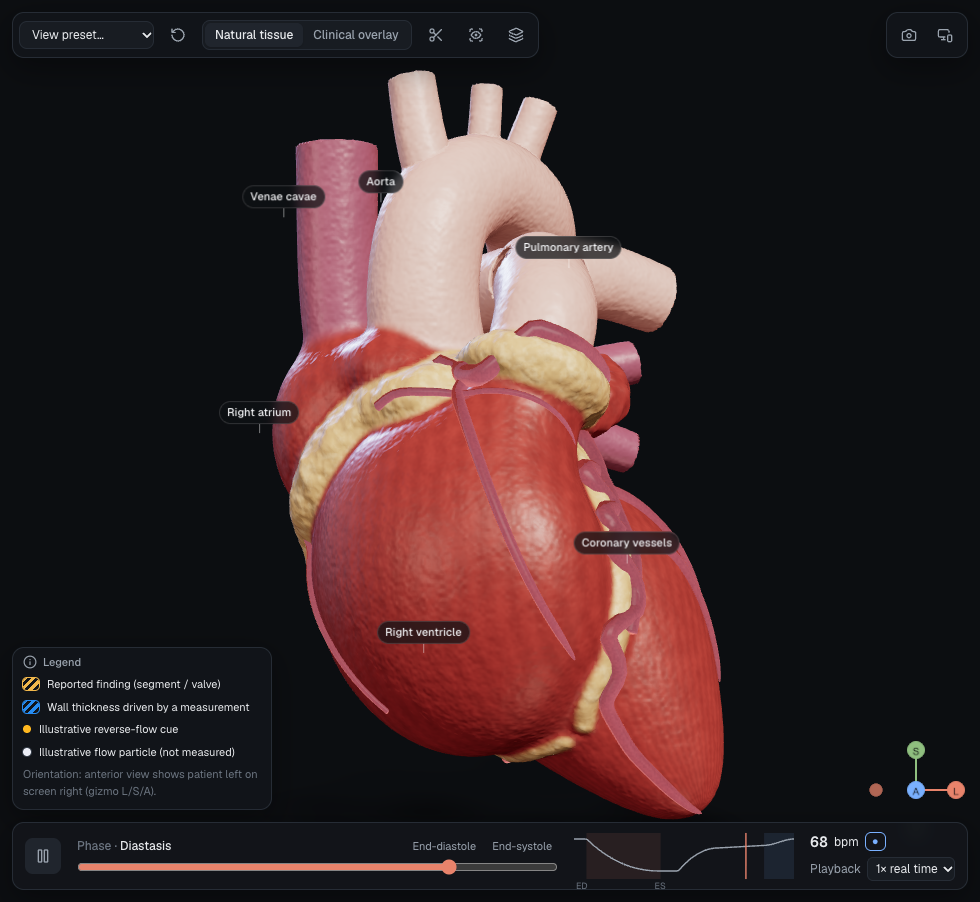
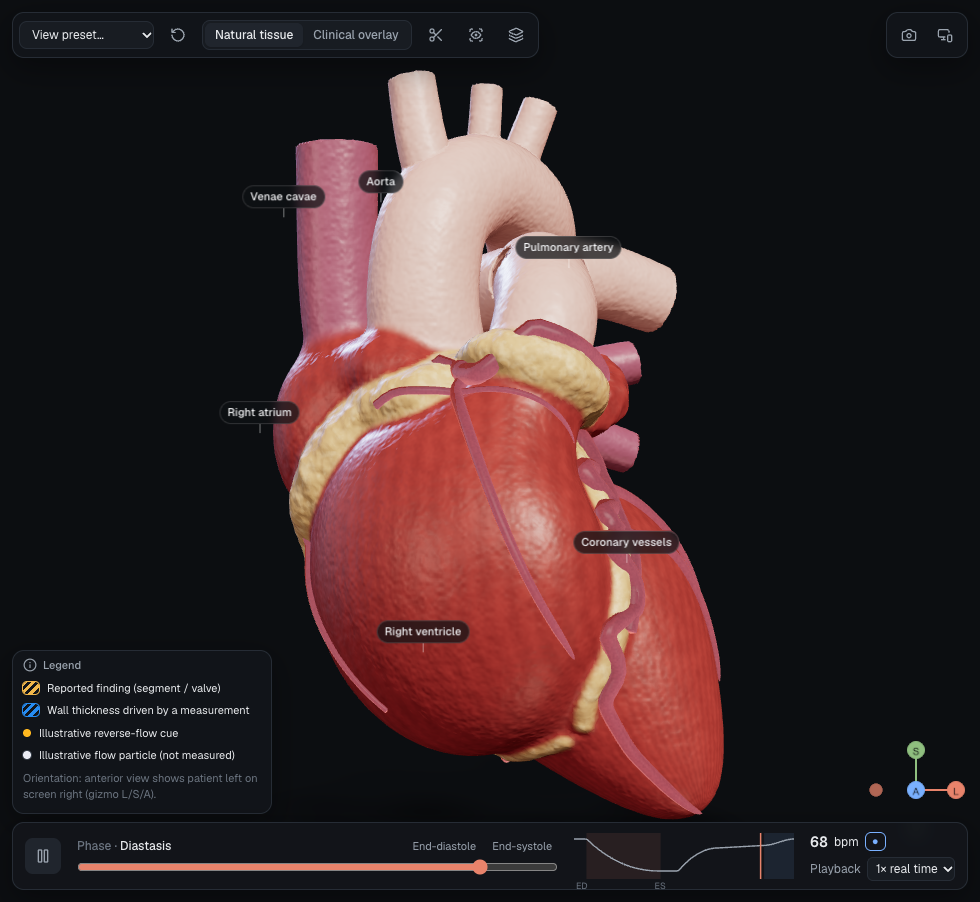
Fix overlapping panels: portal popovers clamped to the window, stacked legend/player, taller mobile viewport, switch knob

diff --git a/src/components/workspace/SceneToolbar.tsx b/src/components/workspace/SceneToolbar.tsx
@@ -1,5 +1,6 @@
 "use client";
-import { useEffect, useRef, useState, type ReactNode } from "react";
+import { useEffect, useLayoutEffect, useRef, useState, type ReactNode } from "react";
+import { createPortal } from "react-dom";
 import { Camera, Eye, EyeOff, Focus, Layers, MonitorSmartphone, RotateCcw, Scissors, ScanEye } from "lucide-react";
 import { STRUCTURE_IDS, STRUCTURE_LABEL, type StructureId } from "@/domain/mapping/types";
 import { useApp, type CameraPreset, type CutAxis, type Layers as L, type Quality } from "@/state/store";
@@ -19,25 +20,60 @@ const PRESETS: { id: CameraPreset; label: string; key: string }[] = [
   { id: "aortic_closeup", label: "Aortic close-up", key: "9" },
 ];
 
+/**
+ * Popover rendered in a portal with fixed positioning, clamped to the window, so it is never clipped by
+ * the viewport (overflow hidden) or hidden under the inspector / playback bar on narrow screens.
+ */
 export function Popover({ button, children, align = "left", label }: { button: (open: boolean) => ReactNode; children: ReactNode; align?: "left" | "right"; label: string }) {
   const [open, setOpen] = useState(false);
-  const ref = useRef<HTMLDivElement>(null);
+  const [pos, setPos] = useState<{ left: number; top: number; maxH: number; width: number } | null>(null);
+  const anchor = useRef<HTMLDivElement>(null);
+  const panel = useRef<HTMLDivElement>(null);
+
+  useLayoutEffect(() => {
+    if (!open) return;
+    const place = () => {
+      const r = anchor.current?.getBoundingClientRect();
+      if (!r) return;
+      const margin = 8;
+      const width = Math.min(300, window.innerWidth - margin * 2);
+      let left = align === "right" ? r.right - width : r.left;
+      left = Math.max(margin, Math.min(left, window.innerWidth - width - margin));
+      const top = r.bottom + 6;
+      setPos({ left, top, width, maxH: Math.max(160, window.innerHeight - top - margin) });
+    };
+    place();
+    window.addEventListener("resize", place);
+    window.addEventListener("scroll", place, true);
+    return () => { window.removeEventListener("resize", place); window.removeEventListener("scroll", place, true); };
+  }, [open, align]);
+
   useEffect(() => {
     if (!open) return;
     const close = (e: MouseEvent | KeyboardEvent) => {
-      if (e instanceof KeyboardEvent ? e.key === "Escape" : !ref.current?.contains(e.target as Node)) setOpen(false);
+      if (e instanceof KeyboardEvent) { if (e.key === "Escape") setOpen(false); return; }
+      const t = e.target as Node;
+      if (!anchor.current?.contains(t) && !panel.current?.contains(t)) setOpen(false);
     };
     document.addEventListener("mousedown", close);
     document.addEventListener("keydown", close);
     return () => { document.removeEventListener("mousedown", close); document.removeEventListener("keydown", close); };
   }, [open]);
+
   return (
-    <div ref={ref} className="relative">
+    <div ref={anchor} className="relative">
       <div onClick={() => setOpen((o) => !o)} aria-expanded={open} aria-haspopup="dialog">{button(open)}</div>
-      {open && (
-        <div role="dialog" aria-label={label} className={cx("absolute top-10 z-30 w-72 rounded-xl border border-line bg-panel p-3 shadow-[var(--shadow)]", align === "right" ? "right-0" : "left-0")}>
+      {open && pos && createPortal(
+        <div
+          ref={panel}
+          role="dialog"
+          aria-label={label}
+          style={{ position: "fixed", left: pos.left, top: pos.top, width: pos.width, maxHeight: pos.maxH }}
+          className="z-[60] overflow-y-auto rounded-xl border border-line bg-panel p-3 shadow-[var(--shadow)] scroll-thin"
+        >
           {children}
-        </div>
+        </div>,
+        document.body,
       )}
     </div>
   );
@@ -116,7 +152,7 @@ export function SceneToolbar({ onFallback, tierName, lod }: { onFallback: () => 
         </Popover>
         <IconButton label="X-ray outer shell" pressed={s.xray} onClick={() => s.set({ xray: !s.xray })}><ScanEye className="h-4 w-4" /></IconButton>
         <Popover label="Layers and structures" button={(open) => <IconButton label="Layers and structures" pressed={open}><Layers className="h-4 w-4" /></IconButton>}>
-          <div className="max-h-[60vh] overflow-auto pr-1 scroll-thin">
+          <div>
             {LAYER_ROWS.map((r) => <Switch key={r.k} label={r.label} hint={r.hint} checked={s.layers[r.k]} onChange={(v) => s.setLayer(r.k, v)} />)}
             <div className="mt-3 border-t border-line pt-2 text-[11px] font-semibold uppercase tracking-[0.08em] text-faint">Structures</div>
             <ul className="mt-1">

diff --git a/src/components/workspace/PlaybackBar.tsx b/src/components/workspace/PlaybackBar.tsx
@@ -46,11 +46,11 @@ export function PlaybackBar() {
   const togglePlay = () => s.set(s.playing ? { playing: false, scrubPhase: live } : { playing: true });
   const seek = (p: number) => { getClock("main").phase = p; s.set({ playing: false, scrubPhase: p }); };
   return (
-    <div className="pointer-events-auto absolute inset-x-3 bottom-3 z-20 flex flex-wrap items-center gap-x-4 gap-y-2 rounded-xl border border-line bg-panel/92 px-3 py-2 shadow-[var(--shadow)] backdrop-blur">
+    <div className="pointer-events-auto flex w-full flex-wrap items-center gap-x-4 gap-y-2 rounded-xl border border-line bg-panel/92 px-3 py-2 shadow-[var(--shadow)] backdrop-blur">
       <IconButton label={s.playing ? "Pause (Space)" : "Play (Space)"} onClick={togglePlay} className="h-9 w-9 bg-panel-3 text-ink">
         {s.playing ? <Pause className="h-4 w-4" /> : <Play className="h-4 w-4" />}
       </IconButton>
-      <div className="flex min-w-[220px] flex-1 flex-col gap-1">
+      <div className="flex min-w-[180px] flex-1 flex-col gap-1">
         <div className="flex items-center justify-between text-[12px]">
           <span aria-live="polite" className="font-medium">
             <span className="text-faint">Phase · </span>{PHASE_NAMES[cyc.phase]}
@@ -62,7 +62,7 @@ export function PlaybackBar() {
         </div>
         <input aria-label="Cardiac cycle phase" type="range" min={0} max={0.999} step={0.001} value={phase} onChange={(e) => seek(Number(e.target.value))} />
       </div>
-      <div className="hidden md:block"><CycleDiagram phases={phases} phase={phase} /></div>
+      <div className="hidden xl:block"><CycleDiagram phases={phases} phase={phase} /></div>
       <div className="flex flex-col gap-1 text-[12px]">
         <span className="flex items-center gap-1.5"><span className="num text-[15px] font-semibold">{heartRateBpm}</span> bpm <EvidenceBadge evidence={evidence} compact /></span>
         <label className="flex items-center gap-1.5 text-muted">

diff --git a/src/components/workspace/Legend.tsx b/src/components/workspace/Legend.tsx
@@ -10,9 +10,10 @@ const REGION_COLORS: [string, string][] = [
 
 export function Legend() {
   const mode = useApp((s) => s.mode);
-  const [open, setOpen] = useState(true);
+  // open by default only where there is room; on smaller screens it starts collapsed
+  const [open, setOpen] = useState(() => typeof window !== "undefined" && window.innerWidth >= 1400 && window.innerHeight >= 860);
   return (
-    <div className="pointer-events-auto absolute bottom-[92px] left-3 z-10 max-w-[260px] rounded-xl border border-line bg-panel/90 text-[11px] shadow-[var(--shadow)] backdrop-blur">
+    <div className="pointer-events-auto max-w-[260px] rounded-xl border border-line bg-panel/90 text-[11px] shadow-[var(--shadow)] backdrop-blur">
       <button className="flex w-full items-center gap-1.5 px-2.5 py-1.5 font-medium text-muted hover:text-ink" aria-expanded={open} onClick={() => setOpen(!open)}>
         <Info className="h-3.5 w-3.5" /> Legend
       </button>

diff --git a/src/components/workspace/Workspace.tsx b/src/components/workspace/Workspace.tsx
@@ -41,7 +41,7 @@ export default function Workspace() {
           </IconButton>
         </div>
       </header>
-      <div className="grid min-h-0 flex-1 grid-cols-1 grid-rows-[minmax(0,42dvh)_auto_auto] overflow-y-auto lg:grid-cols-[260px_minmax(0,1fr)_360px] lg:grid-rows-1 lg:overflow-hidden">
+      <div className="grid min-h-0 flex-1 grid-cols-1 grid-rows-[minmax(420px,68dvh)_auto_auto] overflow-y-auto lg:grid-cols-[260px_minmax(0,1fr)_360px] lg:grid-rows-1 lg:overflow-hidden">
         <div className="order-2 min-h-0 border-line bg-panel lg:order-1 lg:border-r"><PatientLibrary /></div>
         <main className="order-1 min-h-0 lg:order-2" aria-label="3D heart workspace">
           {workspace === "compare" ? <CompareWorkspace /> : <HeartViewport />}

diff --git a/src/components/ui/primitives.tsx b/src/components/ui/primitives.tsx
@@ -110,7 +110,7 @@ export function Switch({ checked, onChange, label, hint }: { checked: boolean; o
         onClick={() => onChange(!checked)}
         className={cx("relative h-5 w-9 shrink-0 rounded-full transition-colors", checked ? "bg-accent" : "bg-panel-3 ring-1 ring-line-strong")}
       >
-        <span className={cx("absolute top-0.5 h-4 w-4 rounded-full bg-white shadow transition-transform", checked ? "translate-x-4.5" : "translate-x-0.5")} />
+        <span className={cx("absolute left-0 top-0.5 h-4 w-4 rounded-full bg-white shadow transition-transform", checked ? "translate-x-4.5" : "translate-x-0.5")} />
       </button>
     </label>
   );

diff --git a/src/components/workspace/HeartViewport.tsx b/src/components/workspace/HeartViewport.tsx
@@ -70,8 +70,11 @@ export function HeartViewport() {
         </div>
       )}
       <SceneToolbar onFallback={() => setForceFallback(true)} tierName={tier.name} lod={assets.high ? "high" : "low"} />
-      <Legend />
-      <PlaybackBar />
+      {/* legend and player share one bottom column so they can never overlap each other */}
+      <div className="pointer-events-none absolute inset-x-3 bottom-3 z-20 flex flex-col items-start gap-2">
+        <Legend />
+        <PlaybackBar />
+      </div>
     </div>
   );
 }
